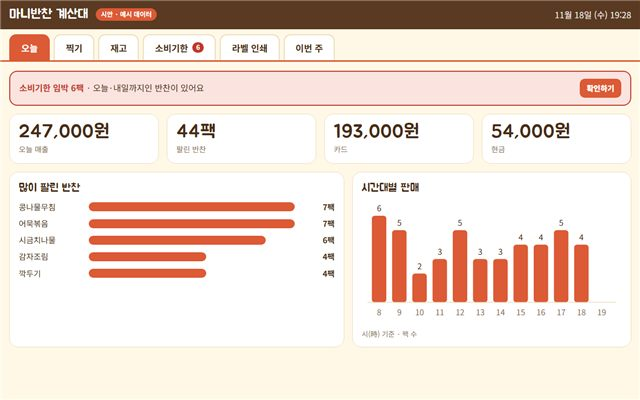
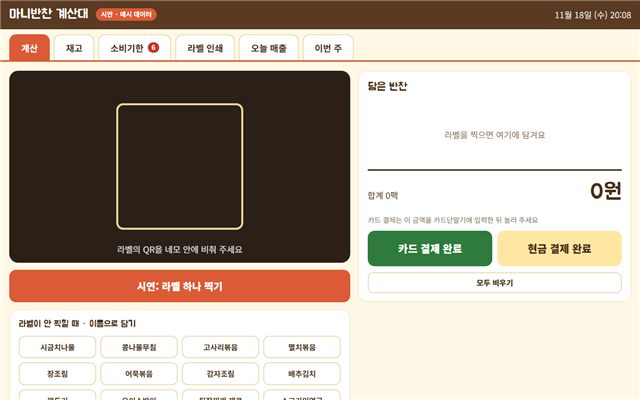
계산대 앱: 기본 화면을 계산(찍기)으로, 매출 탭은 뒤로

diff --git a/docs/pos/index.html b/docs/pos/index.html
@@ -168,7 +168,7 @@ const WSTAT = Object.fromEntries(DISHES.map(d => [d.id, { sold: 12 + Math.floor(
 /* ---------- 공통 ---------- */
 const $ = id => document.getElementById(id);
 const esc = s => String(s).replace(/[&<>"]/g, c => ({"&":"&amp;","<":"&lt;",">":"&gt;",'"':"&quot;"}[c]));
-let tab = "today", cart = [], pickId = 1, qty = 8, toastT;
+let tab = "scan", cart = [], pickId = 1, qty = 8, toastT;
 function toast(msg){ const t = $("toast"); t.textContent = msg; t.hidden = false; clearTimeout(toastT); toastT = setTimeout(() => t.hidden = true, 2200); }
 function tick(){ const d = new Date(); $("clock").textContent = `${d.getMonth()+1}월 ${d.getDate()}일 (${"일월화수목금토"[d.getDay()]}) ${pad(d.getHours())}:${pad(d.getMinutes())}`; }
 tick(); setInterval(tick, 20000);
@@ -176,7 +176,7 @@ const soldToday = () => packs.filter(p => p.st === "sold" && p.at >= today0);
 const dleft = p => Math.floor((p.exp - today0) / DAY);
 const urgent = () => packs.filter(p => p.st === "in" && dleft(p) <= 1);
 
-const TABS = [["today","오늘"],["scan","찍기"],["stock","재고"],["exp","소비기한"],["label","라벨 인쇄"],["week","이번 주"]];
+const TABS = [["scan","계산"],["stock","재고"],["exp","소비기한"],["label","라벨 인쇄"],["today","오늘 매출"],["week","이번 주"]];
 function renderTabs(){
   const u = urgent().length;
   $("tabs").innerHTML = TABS.map(([k, n]) => `<button role="tab" aria-selected="${k === tab}" data-t="${k}">${n}${k === "exp" && u ? `<span class="badge">${u}</span>` : ""}${k === "scan" && cart.length ? `<span class="badge">${cart.length}</span>` : ""}</button>`).join("");
